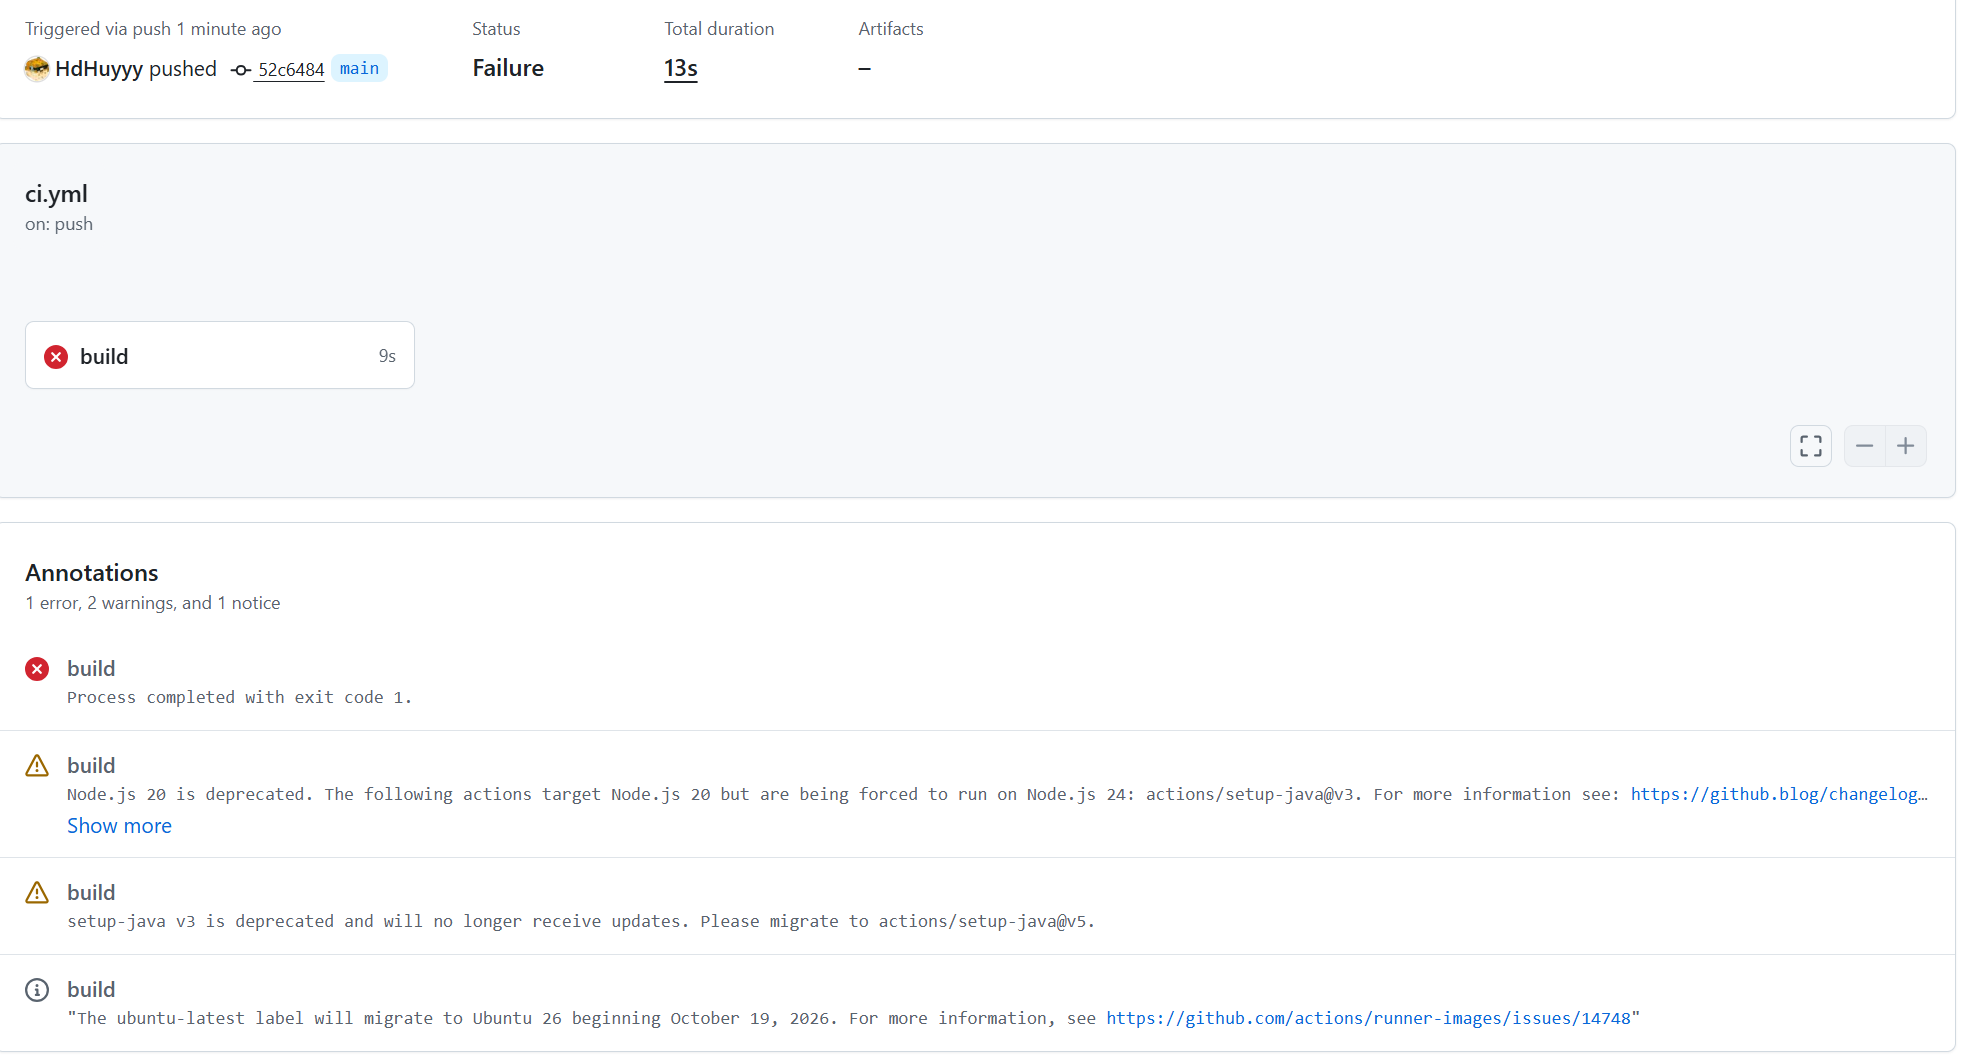
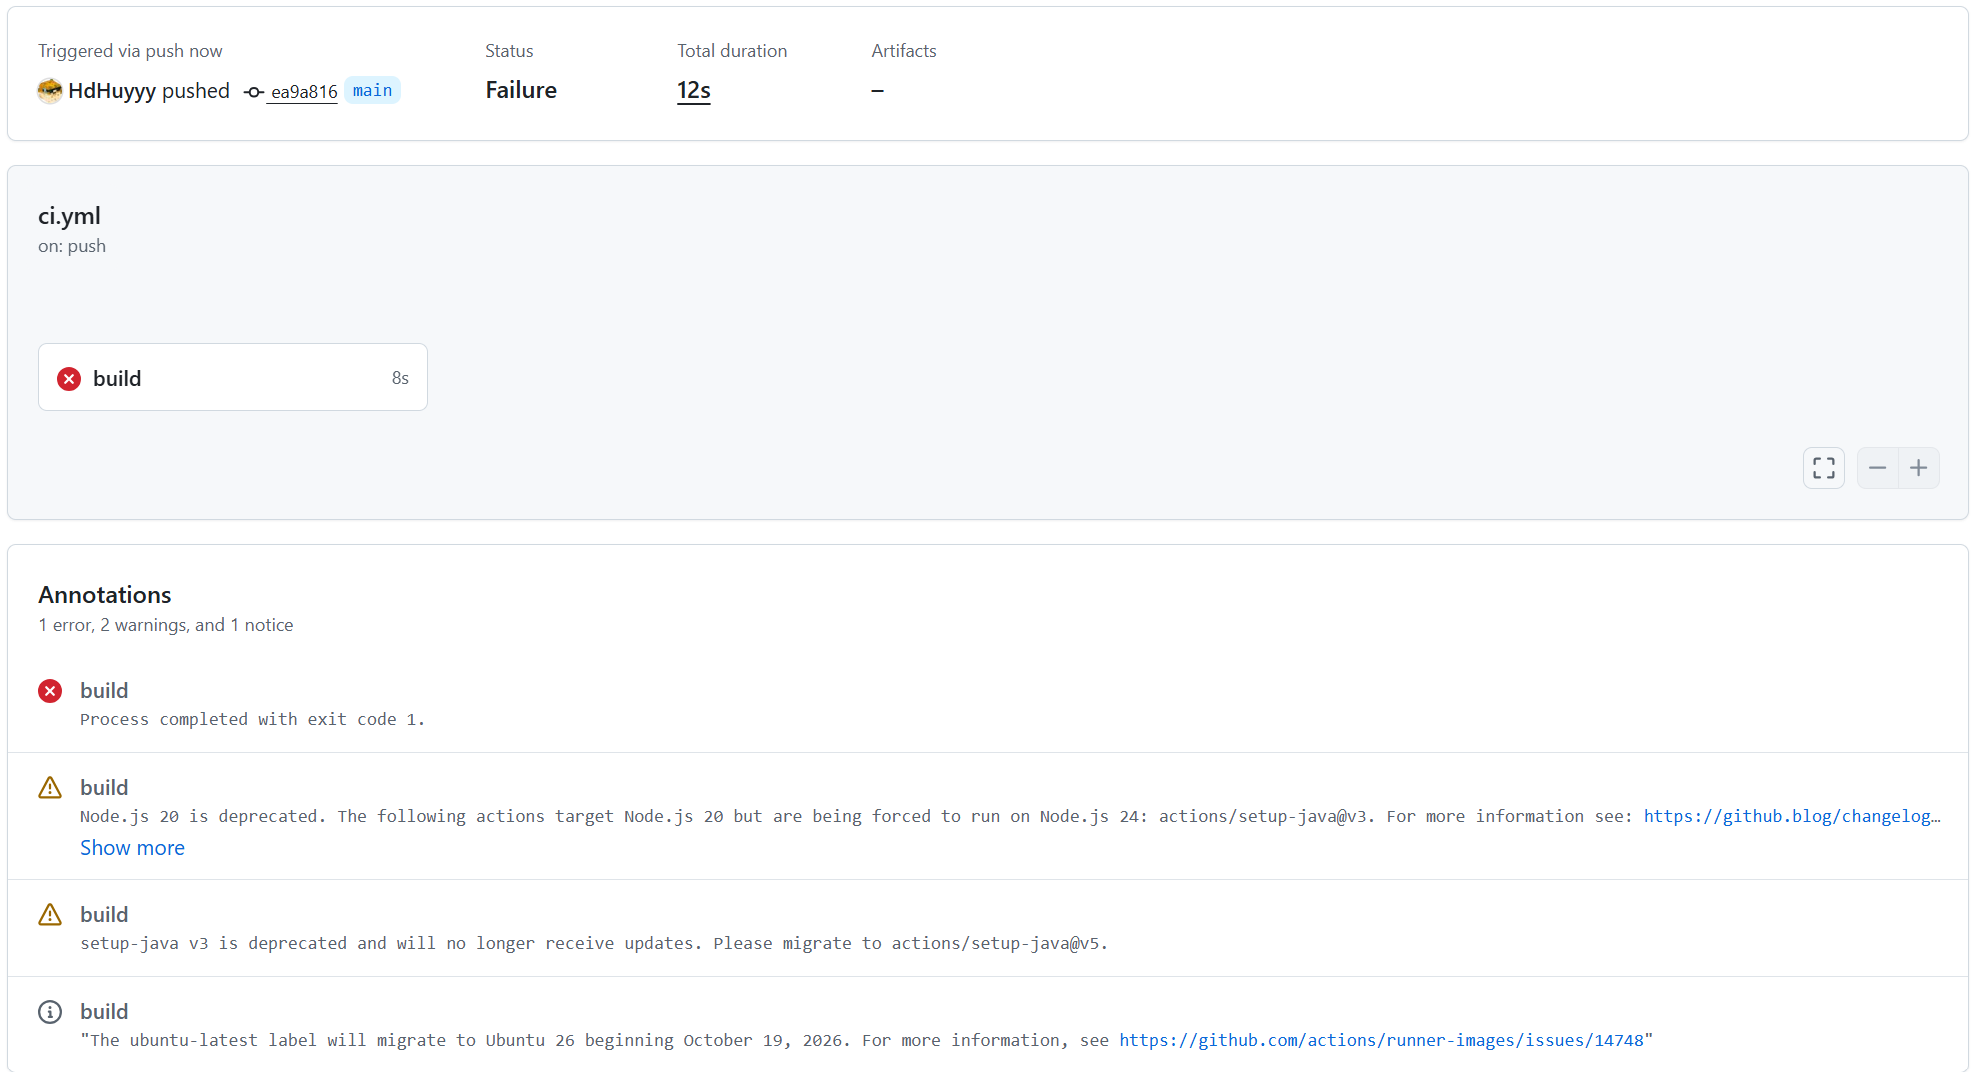
loi 2

diff --git a/REAME.md b/REAME.md
@@ -3,3 +3,4 @@ du an https://github.com/HdHuyyy/pipeline-
 
 Sửa lỗi phiên bản Logback
 - Trong pom.xml, đổi 9.9.9 thành 1.4.11.
+- ![img.png](img.png)
